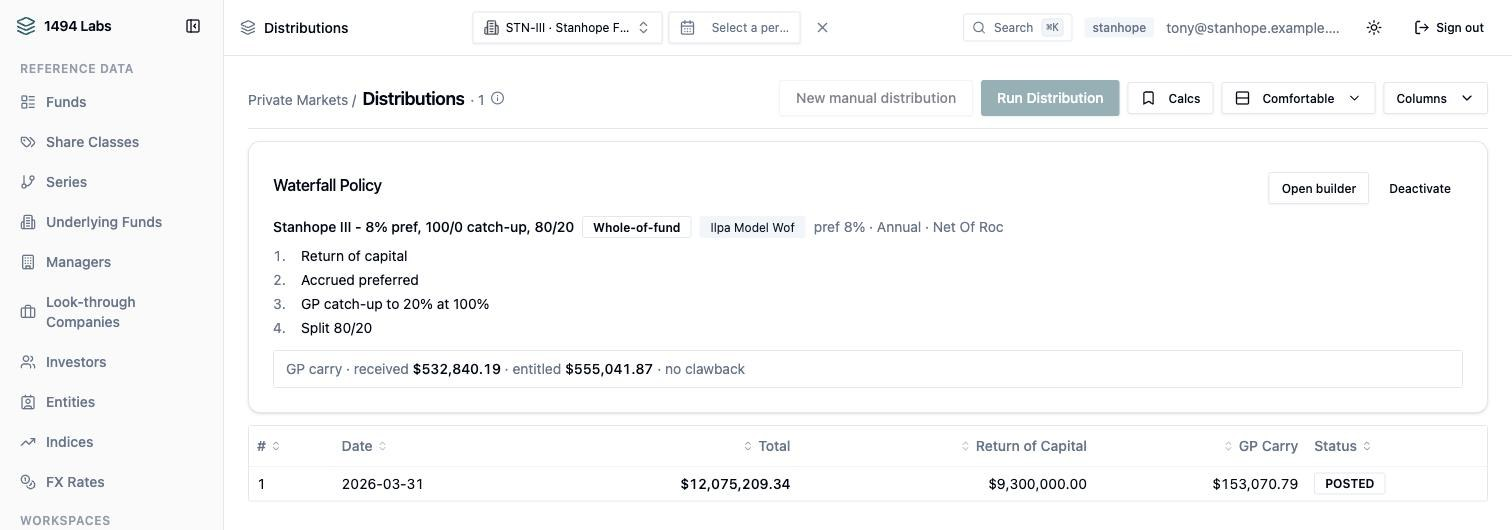
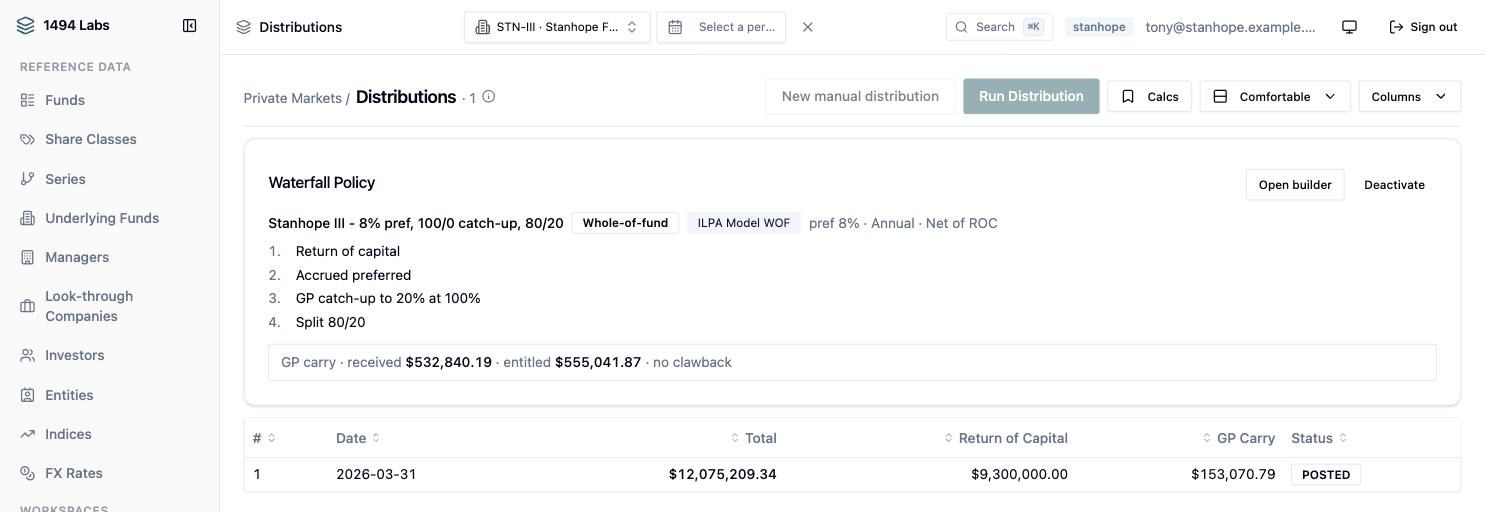
Restore the waterfall screenshot, re-shot
Now reads ILPA Model WOF and Net of ROC. Back on the landing page under private
markets, on the private-equity page where it is the section's subject, and in
the European vs American waterfall note.

diff --git a/notes/european-vs-american-waterfall/index.html b/notes/european-vs-american-waterfall/index.html
@@ -354,15 +354,10 @@
     </p>
 
     <figure class="shot">
-      <img src="/assets/screens/distribution-waterfall.jpg" width="1512" height="530"
+      <img src="/assets/screens/distribution-waterfall.jpg" width="1485" height="512"
            loading="lazy" decoding="async"
-           alt="A distribution screen showing waterfall tiers, with GP carry received of $532,840.19 against $555,041.87 entitled.">
-      <figcaption>
-        <b>The same seven answers, entered as tiers.</b>
-        The split below is computed from them, and carry received is reported
-        beside carry entitled, so the gap that a whole-fund test creates is on the
-        screen instead of in somebody's working file.
-      </figcaption>
+           alt="A waterfall policy with four tiers - return of capital, accrued preferred, GP catch-up to 20 percent, split 80/20 - and a line reading GP carry received $532,840.19 against $555,041.87 entitled.">
+      <figcaption><b>The same seven answers, entered as tiers.</b> The split below is computed from them, and carry received is reported beside carry entitled, so the gap a whole-fund test creates is on the screen instead of in a working file.</figcaption>
     </figure>
 
     <div class="endcta">

diff --git a/index.html b/index.html
@@ -529,6 +529,13 @@ footer.site{border-top:1px solid var(--rule);padding:34px 0 56px;margin-top:clam
       </figcaption>
     </figure>
 
+    <figure class="shot">
+      <img src="/assets/screens/distribution-waterfall.jpg" width="1485" height="512"
+           loading="lazy" decoding="async"
+           alt="A waterfall policy with four tiers - return of capital, accrued preferred, GP catch-up to 20 percent, split 80/20 - and a line reading GP carry received $532,840.19 against $555,041.87 entitled.">
+      <figcaption><b>A distribution the platform computed, not one it was told.</b> The four tiers are the fund's own policy and the split is derived from them, with carry received reported beside carry entitled so the gap a whole-fund test creates is on the screen rather than in somebody's working file. The same screen also accepts a distribution modelled elsewhere, booked and allocated with no waterfall policy at all.</figcaption>
+    </figure>
+
     <div class="shots">
       <figure class="shot">
         <img src="/assets/screens/capital-calls.jpg" width="1568" height="508"

diff --git a/private-equity-fund-accounting/index.html b/private-equity-fund-accounting/index.html
@@ -147,6 +147,13 @@
       <a href="/notes/european-vs-american-waterfall/">European vs American waterfalls</a>.
     </p>
 
+    <figure class="shot">
+      <img src="/assets/screens/distribution-waterfall.jpg" width="1485" height="512"
+           loading="lazy" decoding="async"
+           alt="A waterfall policy with four tiers - return of capital, accrued preferred, GP catch-up to 20 percent, split 80/20 - and a line reading GP carry received $532,840.19 against $555,041.87 entitled.">
+      <figcaption><b>The same seven answers, entered as tiers.</b> Return of capital, accrued preferred, a catch-up to 20% at 100%, then an 80/20 split, marked whole-of-fund and priced against an 8% preferred net of return of capital. Carry received sits beside carry entitled, because on a whole-fund test those are different numbers and the difference is the point.</figcaption>
+    </figure>
+
     <h2>Calls that move the account</h2>
     <p>
       A capital call is issued against commitments, noticed to the limited
